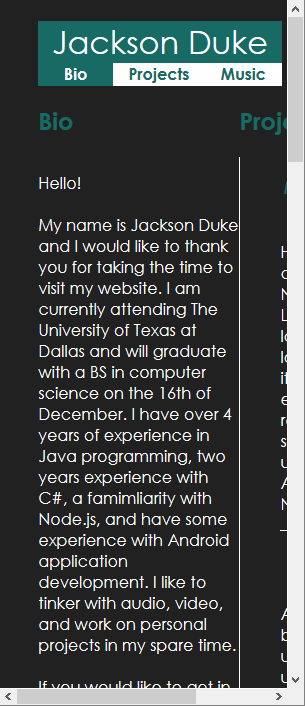
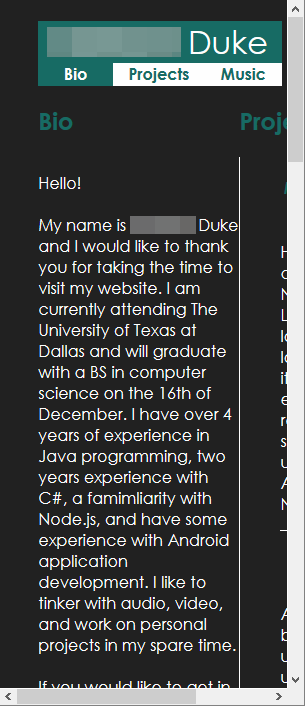
Update of content.

Changed region(s): [[0.1475, 0.0312, 0.5902, 0.0935], [0.4131, 0.2805, 0.6492, 0.3428]]

diff --git a/src/index.html b/src/index.html
@@ -2,7 +2,7 @@
 <html lang="en">
 <head>
   <meta charset="utf-8">
-  <title>Jackson Duke</title>
+  <title>Olivia Duke</title>
   <base href="/">
   <meta name="viewport" content="width=device-width, initial-scale=1, shrink-to-fit=no">
   <link rel="icon" type="image/x-icon" href="assets/images/icons/j_icon_32.png">

diff --git a/src/modules/wishlist/wishlist-item/wishlist-item.component.ts b/src/modules/wishlist/wishlist-item/wishlist-item.component.ts
@@ -7,7 +7,7 @@ import {SpecificItem} from '../models/wishlist/specificItem';
   styleUrls: ['./wishlist-item.component.css']
 })
 export class WishlistItemComponent {
-  title = 'Jackson Duke | Wishlist';
+  title = 'Olivia Duke | Wishlist';
   @Input() item: SpecificItem;
 
   openLink() {

diff --git a/src/app/components/navbar/navbar.component.ts b/src/app/components/navbar/navbar.component.ts
@@ -6,6 +6,6 @@ import {Component} from '@angular/core';
   styleUrls: ['./navbar.component.css']
 })
 export class NavbarComponent {
-  brandPrimary = 'Jackson';
+  brandPrimary = 'Olivia';
   brandSecondary = 'Duke';
 }

diff --git a/README.md b/README.md
@@ -1,7 +1,7 @@
 # Personal Website
 
-This project was generated with [Angular CLI](https://github.com/angular/angular-cli) version 8.3.18.
+This project was originally generated with [Angular CLI](https://github.com/angular/angular-cli) version 8.3.18 and has been continuously updated since.
 
 ## Purpose
 
-This is my personal website project to showcase my portfolio and some information about myself. You can visit it at https://www.jackson-duke.com
+This is my personal website project to showcase my portfolio and some information about myself. You can visit it at https://www.olivia-duke.com
